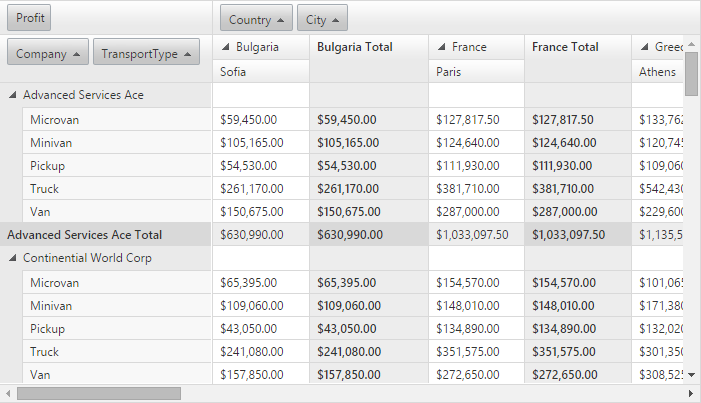
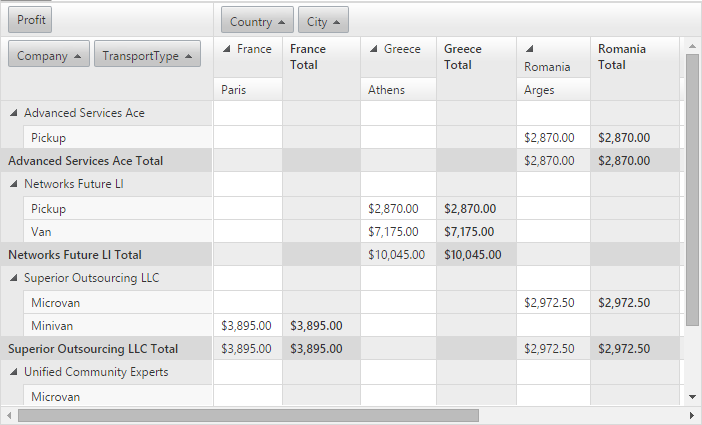
RadClientExportManager edited article

diff --git a/controls/clientexportmanager/how-to/change-the-exported-content-before-export.md b/controls/clientexportmanager/how-to/change-the-exported-content-before-export.md
@@ -16,14 +16,28 @@ This article demonstrates how you can change the exported content just before th
 
 ## 
 
-The **.k-pdf-export** CSS class applies to a DOM element before the export starts and is removed after the element is exported. This makes possible applying styles to the element, the effect of which would be visible in the exported .PDF file, but they would not affect the element's appearance in the browser.  
+The **k-pdf-export** CSS class is applied to the exported DOM element before the export starts and is removed after the element is exported. This makes possible applying styles to the element, the effect of which would be visible in the exported .PDF file, but they would not affect the element's appearance in the browser.  
 
-**Example 1:** In the following example we are using the **.k-pdf-export** class in the selector to apply several styles to a `<div>` element, changing its appearance in the exported .PDF file and keeping it unchanged in the browser.
+**Example 1:** In the following example we are using the **k-pdf-export** class in the selector to apply several styles to a `<div>` element, changing its appearance in the exported .PDF file and keeping it unchanged in the browser.
+
+
+The `<div>` before export:
 
 
 ````ASPNET
 <div class="exported-div">Exported div</div>
 ````
+
+
+````CSS
+.exported-div {
+    width: 100px;
+    border: 1px solid black;
+}
+````
+
+
+![Div Before Export](images/clientexportmanager-div-before-export.png)
 
 
 The styles we want to apply to the exported `<div>`:
@@ -36,7 +50,7 @@ The styles we want to apply to the exported `<div>`:
     text-align: center;
     background-color: blue;
     color: red;
-    border: 2px solid black;       
+    border: 2px solid grey;       
 }
 ````
 
@@ -47,11 +61,11 @@ This is how the exported `<div>` would look like in the .PDF file:
 
 **Example 2:** Exporting all the columns of a **RadPivotGrid** 
 
-Another common scenario this **RadClientExportManager** feature could successfully be used in is when you want to export all the data displayed by a data summarization control such as the **RadPivotGrid.** If the total width of its columns exceeds the width of the **RadPivotGrid** a horizontal scrollbar will be displayed and exporting will be limited to the visible columns of the control. The **.k-pdf-export** CSS class can remedy this and allow you to export all the data. You just have to add it to the selectors in the CSS rules, responsible for removing the scrollbars. This way the **RadPivotGrid** would keep its scrollbars in the browser but the exported .PDF file would contain all the columns including those that are not visible in the browser at the moment of export.   
+Another common scenario, where changing the exported content could be needed, is when you want to export all the data displayed by a data summarization control such as the **RadPivotGrid.** If the total width of its columns exceeds the width of the **RadPivotGrid** a horizontal scrollbar will be displayed and exporting will be limited to the visible columns of the control. The **k-pdf-export** CSS class allows you to export all the data, you just have to add it to the selectors in the CSS rules responsible for removing the scrollbars. This way the **RadPivotGrid** would keep its scrollbars in the browser but the exported .PDF file would contain all the columns including those that are not visible in the browser at the moment of export.   
 
-**RadPivotGrid** columns exceeding the size of the control:
+**RadPivotGrid** before the export:
 
-![PivotGrid](images/clientexportmanager-pivotgrid.png)
+![PivotGrid Before](images/clientexportmanager-pivotgrid.png)
 
 
 ````ASPNET
@@ -80,7 +94,7 @@ Another common scenario this **RadClientExportManager** feature could successful
 ````
 
 
-CSS rules to remove the scrollbars and display all columns with **.k-pdf-export** added to the selectors:
+CSS rules to remove the scrollbars and display all columns with **k-pdf-export** added to the selectors:
 
 
 ````CSS
@@ -126,4 +140,10 @@ CSS rules to remove the scrollbars and display all columns with **.k-pdf-export*
     </script>
 </telerik:RadCodeBlock>
 ````
+
+
+This is how the exported **RadPivotGrid** looks like in the .PDF file:
+
+![PivotGrid After](images/clientexportmanager-pivotgrid-after.png)
+
 
